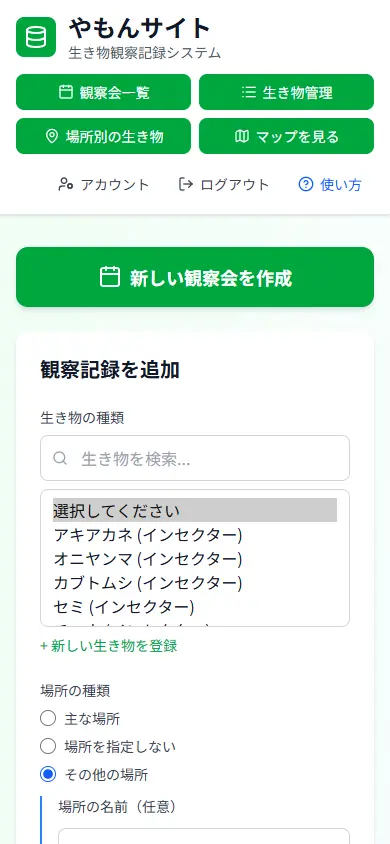
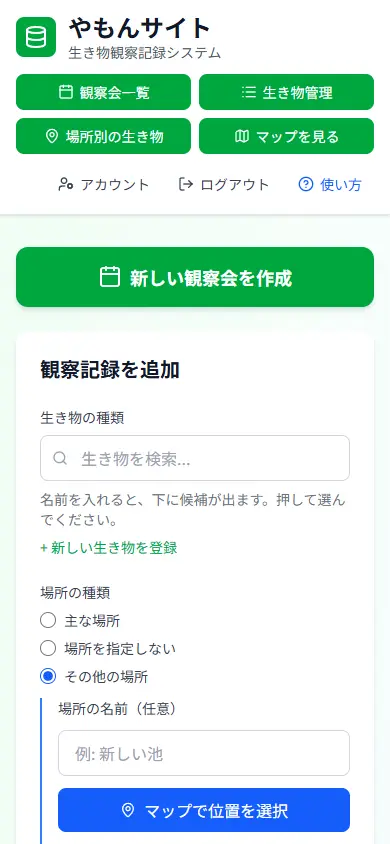
feat: 生き物の検索欄に、入力に合わせて候補をその場で出す
記録のフォームの <select> をやめ、検索欄のすぐ下に一致する生き物の候補と
件数を出す部品 CreaturePicker（コンボボックス）にする（D55）。スマホでも
入力中の候補が見え、押せば必ず選び直せる。キーボード（↓↑・Enter・Esc）と
読み上げの役割にも対応。使い方ガイドの文章と画像を直した。

Refs #95

Changed region(s): [[0.0923, 0.5853, 0.9231, 0.9858]]

diff --git a/apps/web/src/components/CreaturePicker.tsx b/apps/web/src/components/CreaturePicker.tsx
@@ -1,0 +1,145 @@
+import { searchMatcher, type CreatureView } from '@yamon/shared';
+import { Check, Search } from 'lucide-react';
+import { useId, useMemo, useRef, useState, type KeyboardEvent } from 'react';
+import { inputClass } from './ui';
+
+interface Props {
+  creatures: CreatureView[];
+  /** 選ばれている生き物の ID（未選択は ''） */
+  value: string;
+  onChange: (id: string) => void;
+  /** 検索欄の文字。親が、記録の追加の後などに空に戻せるよう、親が持つ */
+  search: string;
+  onSearchChange: (search: string) => void;
+  /** 一致する生き物がないときに、「新しい生き物を登録」を案内するか */
+  canAddCreature: boolean;
+}
+
+/**
+ * 生き物を検索して選ぶ欄（#95、D55）。入力に合わせて、欄のすぐ下に候補をその場で出す（コンボボックス）。
+ * ネイティブの <select> は、スマホでは閉じたドロップダウンになって候補が見えず、選び直せない不具合（#93）もあったのでやめた。
+ * 検索はひらがなでもカタカナに当たる（#91、searchMatcher）。
+ */
+export function CreaturePicker({ creatures, value, onChange, search, onSearchChange, canAddCreature }: Props) {
+  const id = useId();
+  const inputId = `${id}-input`;
+  const listId = `${id}-list`;
+  const [open, setOpen] = useState(false);
+  const [active, setActive] = useState(0);
+  const listRef = useRef<HTMLUListElement>(null);
+
+  const match = useMemo(() => searchMatcher(search), [search]);
+  const candidates = useMemo(() => (match ? creatures.filter((c) => match(c.name)) : creatures), [creatures, match]);
+  const selected = creatures.find((c) => c.id === value);
+  const activeIndex = Math.min(active, Math.max(candidates.length - 1, 0));
+
+  const choose = (c: CreatureView) => {
+    onChange(c.id);
+    onSearchChange('');
+    setOpen(false);
+  };
+
+  const moveActive = (next: number) => {
+    setActive(next);
+    // 動かした候補が見えるようにする
+    listRef.current?.querySelector(`[data-index="${next}"]`)?.scrollIntoView?.({ block: 'nearest' });
+  };
+
+  const onKeyDown = (e: KeyboardEvent<HTMLInputElement>) => {
+    if (e.key === 'ArrowDown' || e.key === 'ArrowUp') {
+      e.preventDefault();
+      if (!open) return setOpen(true);
+      if (candidates.length === 0) return;
+      const step = e.key === 'ArrowDown' ? 1 : -1;
+      moveActive((activeIndex + step + candidates.length) % candidates.length);
+    } else if (e.key === 'Enter') {
+      // 候補が開いている間の Enter は、記録の送信ではなく候補を選ぶ
+      if (open && candidates[activeIndex]) {
+        e.preventDefault();
+        choose(candidates[activeIndex]);
+      }
+    } else if (e.key === 'Escape' && open) {
+      e.preventDefault();
+      setOpen(false);
+    }
+  };
+
+  const showList = open && creatures.length > 0;
+
+  return (
+    <div>
+      <label className="mb-2 block text-sm text-gray-700" htmlFor={inputId}>
+        生き物の種類
+      </label>
+      <div className="relative">
+        <Search className="pointer-events-none absolute top-1/2 left-3 h-4 w-4 -translate-y-1/2 text-gray-400" />
+        <input
+          id={inputId}
+          type="search"
+          role="combobox"
+          autoComplete="off"
+          aria-autocomplete="list"
+          aria-expanded={showList}
+          aria-controls={listId}
+          aria-activedescendant={showList && candidates[activeIndex] ? `${id}-opt-${activeIndex}` : undefined}
+          aria-describedby={selected ? `${id}-selected` : undefined}
+          value={search}
+          onChange={(e) => {
+            onSearchChange(e.target.value);
+            setActive(0);
+            setOpen(true);
+          }}
+          onFocus={() => setOpen(true)}
+          onClick={() => setOpen(true)}
+          // 候補を押したときは onMouseDown で blur を止めるので、ここで閉じても候補の選択には間に合う
+          onBlur={() => setOpen(false)}
+          onKeyDown={onKeyDown}
+          placeholder={selected ? '別の生き物を検索...' : '生き物を検索...'}
+          className={`${inputClass} pl-10`}
+        />
+        {showList && (
+          <div className="absolute top-full right-0 left-0 z-20 mt-1 overflow-hidden rounded-lg border border-gray-200 bg-white shadow-lg">
+            <p className="border-b border-gray-100 px-3 py-1.5 text-xs text-gray-500" aria-live="polite">
+              {match ? `${candidates.length}件見つかりました` : `登録されている生き物（${creatures.length}件）`}
+            </p>
+            <ul id={listId} ref={listRef} role="listbox" aria-label="生き物の候補" className="max-h-64 overflow-y-auto py-1">
+              {candidates.map((c, i) => (
+                <li
+                  key={c.id}
+                  id={`${id}-opt-${i}`}
+                  data-index={i}
+                  role="option"
+                  aria-selected={c.id === value}
+                  // 押したときに検索欄の blur で一覧が閉じないようにする
+                  onMouseDown={(e) => e.preventDefault()}
+                  onClick={() => choose(c)}
+                  onMouseMove={() => i !== activeIndex && setActive(i)}
+                  className={`flex cursor-pointer items-center justify-between gap-2 px-3 py-2.5 text-gray-900 ${i === activeIndex ? 'bg-green-50' : ''}`}
+                >
+                  <span>
+                    {c.name} <span className="text-sm text-gray-500">({c.category})</span>
+                  </span>
+                  {c.id === value && <Check className="h-4 w-4 shrink-0 text-green-600" aria-hidden />}
+                </li>
+              ))}
+            </ul>
+            {candidates.length === 0 && (
+              <p className="px-3 py-3 text-sm text-gray-600">
+                「{search.trim()}」は登録されていません。
+                {canAddCreature && '下の「新しい生き物を登録」から登録できます。'}
+              </p>
+            )}
+          </div>
+        )}
+      </div>
+      {selected ? (
+        <p id={`${id}-selected`} className="mt-2 flex items-center gap-1.5 text-sm text-gray-700">
+          <Check className="h-4 w-4 text-green-600" aria-hidden />
+          選択中：<span className="font-medium text-gray-900">{selected.name}</span>（{selected.category}）
+        </p>
+      ) : (
+        <p className="mt-2 text-sm text-gray-500">名前を入れると、下に候補が出ます。押して選んでください。</p>
+      )}
+    </div>
+  );
+}

diff --git a/apps/web/src/components/RecordForm.tsx b/apps/web/src/components/RecordForm.tsx
@@ -1,8 +1,7 @@
-import { Clock, Plus, Search } from 'lucide-react';
-import { useMemo, useState, type FormEvent } from 'react';
+import { Clock, Plus } from 'lucide-react';
+import { useState, type FormEvent } from 'react';
 import {
   CATEGORIES,
-  searchMatcher,
   nowTimeJst,
   todayJst,
   type Category,
@@ -14,6 +13,7 @@ import {
 } from '@yamon/shared';
 import { errorMessage, useCreateCreature } from '../lib/queries';
 import { CoordinatePicker } from './CoordinatePicker';
+import { CreaturePicker } from './CreaturePicker';
 import { ErrorText, inputClass } from './ui';
 
 interface Props {
@@ -43,8 +43,6 @@ interface Props {
 }
 
 const radioClass = 'h-4 w-4 accent-blue-600';
-/** 検索で一致する生き物がないときの、選べない行の値（生き物の ID や未選択の '' と重ならない） */
-const NO_MATCH = '__no-match__';
 
 export function RecordForm({
   creatures,
@@ -112,15 +110,7 @@ export function RecordForm({
   const [error, setError] = useState<string | null>(null);
   const [submitting, setSubmitting] = useState(false);
 
-  // ひらがなでもカタカナの名前に当たるよう、書き方の違いをそろえて比べる（#91）
-  const match = useMemo(() => searchMatcher(search), [search]);
-  const searching = match !== null;
-  const filtered = useMemo(() => (match ? creatures.filter((c) => match(c.name)) : creatures), [creatures, match]);
   const selected = creatures.find((c) => c.id === creatureId);
-  // 検索で一覧から見えなくなった選択（そのまま送ると、見えない生き物で記録される）
-  const selectedHidden = !!selected && !filtered.includes(selected);
-  // 今の値に合う、見える選択肢があるか（未選択なら「選択してください」の行）。ないと見た目と値がずれる（#93）
-  const valueVisible = creatureId === '' ? !searching : filtered.some((c) => c.id === creatureId);
   const selectedMain = findMainLocation(mainLocationId);
   // 「使わない」場所は選択肢に出さない。編集中の記録の場所だけは残す
   const mainOptions = mainLocations.filter((l) => l.isActive || l.id === initialRecord?.mainLocationId);
@@ -192,59 +182,14 @@ export function RecordForm({
 
       {/* 生き物 */}
       <div>
-        <label className="mb-2 block text-sm text-gray-700" htmlFor="creature-select">
-          生き物の種類
-        </label>
-        <div className="relative mb-2">
-          <Search className="pointer-events-none absolute top-1/2 left-3 h-4 w-4 -translate-y-1/2 text-gray-400" />
-          <input
-            type="search"
-            value={search}
-            onChange={(e) => setSearch(e.target.value)}
-            placeholder="生き物を検索..."
-            className={`${inputClass} pl-10`}
-          />
-        </div>
-        <select
-          id="creature-select"
-          size={5}
-          aria-describedby={selected ? 'creature-selected' : undefined}
+        <CreaturePicker
+          creatures={creatures}
           value={creatureId}
-          onChange={(e) => setCreatureId(e.target.value)}
-          className="w-full rounded-lg border border-gray-300 px-3 py-2 text-gray-900 focus:outline-none focus:ring-2 focus:ring-green-500"
-        >
-          {/* 検索中は一致する生き物だけを出す（#89）。選択は消さず、一覧の下の「選択中」で分かるようにする */}
-          {!searching && <option value="">選択してください</option>}
-          {/*
-            今の値（未選択、検索で一覧から外れた生き物、別の人が消した生き物）に合う見える選択肢がないと、React が先頭の行を
-            選んだ見た目にする。すると、その行を押しても change が起きず選べない（#93）。見えない選択肢で今の値を持たせ、見た目と値をそろえる
-          */}
-          {!valueVisible && (
-            <option value={creatureId} hidden disabled>
-              {selected ? `${selected.name} (${selected.category})` : '選択してください'}
-            </option>
-          )}
-          {filtered.map((c) => (
-            <option key={c.id} value={c.id}>
-              {c.name} ({c.category})
-            </option>
-          ))}
-          {searching && filtered.length === 0 && (
-            <option value={NO_MATCH} disabled>
-              見つかりません
-            </option>
-          )}
-        </select>
-        {selected && (
-          <p
-            id="creature-selected"
-            aria-live="polite"
-            className={`mt-1 text-sm ${selectedHidden ? 'rounded-lg border border-amber-200 bg-amber-50 px-3 py-2 text-amber-900' : 'text-gray-600'}`}
-          >
-            選択中：{selected.name}（{selected.category}）
-            {selectedHidden && '。検索した一覧にはありません。変えるときは、一覧から選んでください'}
-          </p>
-        )}
+          onChange={setCreatureId}
+          search={search}
+          onSearchChange={setSearch}
+          canAddCreature={canAddCreature}
+        />
         {selected?.memo && (
           <p className="mt-2 rounded-lg border border-yellow-200 bg-yellow-50 px-3 py-2 text-sm text-gray-700">
             💬 {selected.memo}

diff --git a/apps/web/src/guide/guides.ts b/apps/web/src/guide/guides.ts
@@ -179,7 +179,7 @@ const MEMBER_SECTIONS: GuideSection[] = [
     lead: '見つけた生き物を、日時と場所といっしょに記録します。',
     requires: '役割が部員・幹部・管理者（OB・OG は記録を付けられません）。ホームの「観察記録を追加」から始めます',
     steps: [
-      '「生き物の種類」で名前を検索して選びます（ひらがなで入れても、カタカナの名前が見つかります）。一覧にないときは「新しい生き物を登録」から、名前・カテゴリ・メモを入れてその場で登録できます。',
+      '「生き物の種類」の欄に名前を入れると、すぐ下に一致する生き物の候補と件数が出ます。候補を押して選びます（ひらがなで入れても、カタカナの名前が見つかります。欄を押しただけなら、登録されている生き物がすべて出ます）。「登録されていません」と出たときは「新しい生き物を登録」から、名前・カテゴリ・メモを入れてその場で登録できます。',
       '「場所の種類」を選びます。「主な場所」から選ぶ／「その他の場所」に名前を入れる／「場所を指定しない」のどれかです。',
       '座標を付けるときは、「マップで位置を選択」で地図を押すか、「現在位置を取得」でスマホの GPS を使います（付けなくても記録できます）。',
       '観察した日時と、メモ（任意）を入れます。',

diff --git a/docs/DECISIONS.md b/docs/DECISIONS.md
@@ -1007,3 +1007,21 @@ D28（Protomaps を R2 から配信）を実装するときに決めた細部。
   - パスワードを忘れた人は、先に管理者に再設定リンク（D46）をもらってから変える。
   - ログインしたままの端末を他人に使われると、その人がパスワードを知っていればアドレスを変えられる（パスワードを知っていれば、もともとログインできる）。通知は新しいアドレス（変えた人のアドレス）にだけ届くので、元の持ち主には知らせが届かない。気づくのは、元のアドレスでログインできなくなったときか、管理者が操作履歴を見たとき。
 - **再検討する条件**：パスワードもアドレスも分からなくなった OB・OG からの相談が多いとき（管理者が変えられるようにする。そのときは保守担当の保護と操作履歴の扱いを決める）。「Google でログイン」（D46 の再検討する条件）に移るとき。
+
+## D55. 記録のフォームの生き物の選び方：ネイティブの `<select>` をやめ、入力に合わせて候補を出す欄（コンボボックス）にする
+
+- **背景（2026-11-11、#95）**：生き物は、検索欄と、その下の `<select size=5>` で選んでいた。iPhone などのスマホでは `size` が効かず閉じたドロップダウンになるので、入力に合わせてどこまで絞られたかが見えず、入力が合っているか・登録されているかを確かめにくかった（ユーザー報告）。また、検索で選択肢が変わると、ネイティブの `<select>` の選択の見た目と React の値がずれ、候補を押しても選べない不具合が起きた（#93。見えない選択肢で値を持たせる回避策を入れていた）。
+- **決定**：部品 `CreaturePicker`（`apps/web/src/components/CreaturePicker.tsx`）を作り、検索欄のすぐ下に候補の一覧を重ねて出す（Google の検索候補のような形）。
+  - 入力するたびに、一致する生き物と件数を出す。欄を押しただけ（空）なら、登録されている生き物をすべて出す（スクロールできる）。一致がなければ「登録されていません」と、登録できる人には「新しい生き物を登録」を案内する。
+  - 候補を押すと選ばれ、一覧を閉じて検索欄を空に戻し、「選択中：〇〇」を出す。前に選んでいても、押せば必ず選び直せる。
+  - キーボード：↓↑で候補を移り、Enter で選ぶ（記録は送らない）、Esc で閉じる。WAI-ARIA の combobox・listbox・option の役割と `aria-activedescendant` を付ける。
+  - 検索の比べ方は `searchMatcher`（#91。ひらがなとカタカナ、全角半角をそろえる）。
+- **採用理由**
+  - パソコンでもスマホでも、同じ見た目で入力中の候補が見える（ネイティブの `<select>` は、端末ごとに見た目と動きが違う）。
+  - 選択の見た目と値を、自分で持つ1つの値（`creatureId`）だけで決められるので、#93 のようなずれが起きない。#93 の回避策（見えない選択肢）は要らなくなった。
+- **比較した案**
+  - **`<select>` のまま（#93 の回避策を残す）**：変更が小さいが、スマホで候補が見えない問題が残る。
+  - **`<input list>` と `<datalist>`**：ブラウザの候補表示を使えるが、iOS Safari では候補の出方が端末任せで、部門の表示や件数・「登録されていません」の案内を出せない。名前の文字列しか返らず、同じ名前の生き物を区別できない。ひらがなとカタカナの比べ方（#91）も使えない。
+  - **ライブラリ（Headless UI・Downshift など）**：アクセシビリティは整っているが、依存が増え、引き継ぎ（D21）で更新を追う手間が増える。この1か所だけなので自前で書いた。
+- **弱くなること**：アクセシビリティを自分で守る必要がある（テストで役割と選ばれた印を確かめている）。一覧を重ねて出すので、スマホでは下の欄が一時的に隠れる（選ぶか、欄の外を押すと閉じる）。
+- **再検討する条件**：同じような選ぶ欄（主な場所など）が増え、共通の部品が要るとき。
